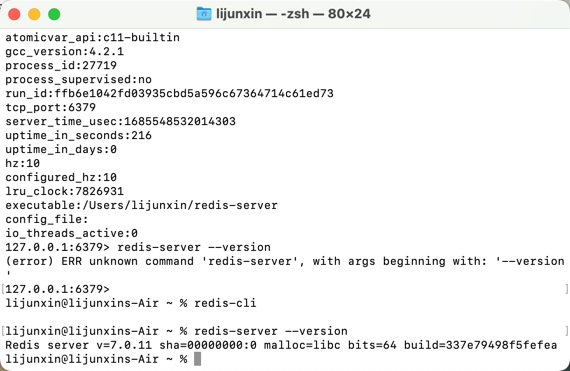
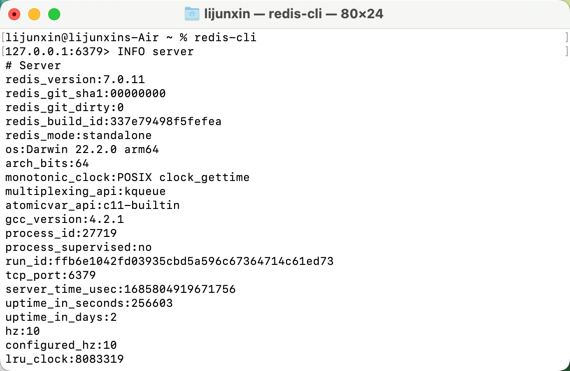
install redis

diff --git a/Basic/redis/redis.md b/Basic/redis/redis.md
@@ -1,3 +1,36 @@
+### mac 电脑 redis 的安装
+1. 安装 redis
+```
+brew install redis
+```
+一般安装成功后，程序文件存放目录: /usr/local/opt/redis，配置文件存放目录: /usr/local/etc/...。
+2. 添加 path 
+```
+vim ~/.bash_profile
+```
+如果使用的是默认安装路径，一般安装在/usr/local/opt/redis。
+
+```
+export REDIS = /usr/local/opt/reids/bin;
+export = $REDIS:$PATH
+```
+3. 启动 redis-server  
+```
+brew services start redis
+```
+未进入 redis 命令行前，可通过查看如下代码查看 redis 版本
+``` 
+redis-server --version
+```
+4. 进入 redis 命令行
+```
+redis-cli
+```
+进入 redis 命令行后，可通过查看如下代码查看 redis 版本
+``` 
+INFO server
+```
+
 ![](redis安装成功查看版本号.png)
 
 
